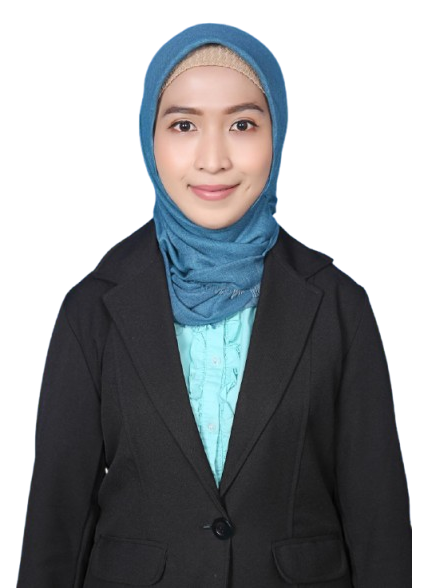
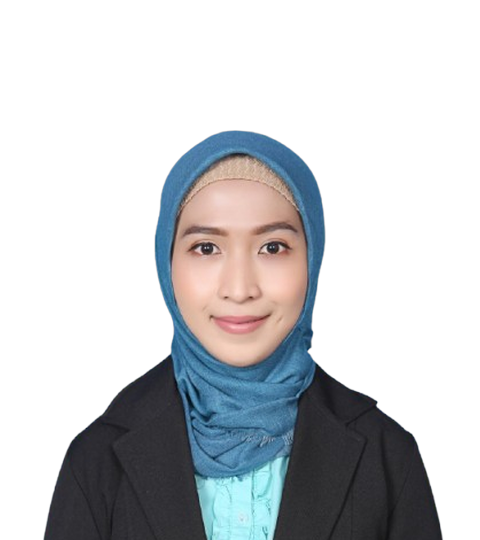
feat: standardize team photo dimensions, crops, and uniform 4-column cards

diff --git a/index.html b/index.html
@@ -780,22 +780,42 @@
       </div>
 
       <!-- Level 1: DIREKTUR (Featured Centered Card) -->
-      <div class="max-w-xl mx-auto mb-12">
-        <div class="group bg-white rounded-3xl border-2 border-brand-mid/30 p-6 sm:p-7 shadow-glow hover:shadow-glow-lg transition-all duration-300 relative overflow-hidden">
+      <div class="max-w-[280px] mx-auto mb-12">
+        <div class="group bg-white rounded-2xl border-2 border-brand-mid/40 p-6 shadow-glow hover:shadow-glow-lg transition-all duration-300 relative overflow-hidden flex flex-col justify-between">
           <div class="absolute -top-12 -right-12 w-40 h-40 bg-brand-light/10 rounded-full blur-2xl pointer-events-none"></div>
           
-          <div class="flex flex-col sm:flex-row items-center sm:items-start gap-5">
-            <div class="relative w-28 h-28 sm:w-32 sm:h-32 shrink-0 rounded-2xl overflow-hidden bg-gradient-to-b from-purple-100/70 via-slate-50 to-purple-50/40 border-2 border-brand-mid/30 shadow-md flex items-end justify-center pt-2">
+          <div>
+            <div class="flex items-center justify-between gap-3 mb-4 pb-3 border-b border-slate-100">
+              <div class="flex items-center gap-2">
+                <div class="w-8 h-8 rounded-lg bg-purple-100 text-purple-700 flex items-center justify-center shrink-0">
+                  <i data-lucide="crown" class="w-4 h-4 text-brand-bright"></i>
+                </div>
+                <div class="leading-tight">
+                  <span class="text-[10px] font-extrabold uppercase tracking-wider text-brand-bright">DEWAN DIREKSI</span>
+                  <h4 class="text-xs font-bold text-slate-800">Direktur Utama</h4>
+                </div>
+              </div>
+              <span class="inline-flex items-center gap-1 px-2.5 py-0.5 rounded-full bg-brand-mid/10 text-brand-dark text-[10px] font-extrabold tracking-wide uppercase">
+                DIREKTUR
+              </span>
+            </div>
+
+            <div class="relative overflow-hidden rounded-xl aspect-[4/5] mb-4 bg-gradient-to-b from-purple-100/70 via-slate-50 to-purple-50/40 border border-brand-mid/20 flex items-end justify-center pt-3">
               <img src="images/team/novita.png" alt="Novita Nurul Islami" class="w-full h-full object-contain object-bottom group-hover:scale-105 transition-transform duration-500">
             </div>
 
-            <div class="flex-1 text-center sm:text-left space-y-1.5">
-              <div class="inline-flex items-center gap-1.5 px-3 py-1 rounded-full bg-brand-mid/10 text-brand-dark text-xs font-extrabold tracking-wide uppercase">
-                <i data-lucide="crown" class="w-3.5 h-3.5 text-brand-bright"></i>
-                DIREKTUR
-              </div>
-              <h3 class="text-xl sm:text-2xl font-extrabold text-slate-900 tracking-tight">Novita Nurul Islami, S.Pd., M.Pd.</h3>
-              <p class="text-xs font-semibold text-slate-500">Pimpinan Eksekutif</p>
+            <div class="space-y-1">
+              <span class="text-[10px] font-extrabold uppercase tracking-wider text-purple-700 bg-purple-50 px-2 py-0.5 rounded">PIMPINAN EKSEKUTIF</span>
+              <h3 class="text-base font-bold text-slate-900 leading-snug pt-1">Novita Nurul Islami, S.Pd., M.Pd.</h3>
+              <p class="text-xs font-semibold text-slate-500">Executive Leadership & Corporate Governance</p>
+            </div>
+          </div>
+
+          <div class="pt-4 mt-5 border-t border-slate-100 flex items-center justify-between">
+            <span class="text-[10px] bg-purple-50 text-purple-700 font-semibold px-2 py-0.5 rounded">Executive Leadership</span>
+            <div class="flex items-center gap-3 text-slate-400">
+              <a href="#" class="hover:text-brand-bright transition-colors"><i data-lucide="linkedin" class="w-4 h-4"></i></a>
+              <a href="#" class="hover:text-brand-bright transition-colors"><i data-lucide="mail" class="w-4 h-4"></i></a>
             </div>
           </div>
         </div>
@@ -809,8 +829,8 @@
         </div>
       </div>
 
-      <!-- Level 2: 3 DIVISI UTAMA -->
-      <div class="grid md:grid-cols-3 gap-6 lg:gap-8">
+      <!-- Level 2: DIVISI & CORE SPECIALISTS (Standardized Uniform Cards) -->
+      <div class="grid sm:grid-cols-2 lg:grid-cols-4 gap-6">
         
         <!-- Divisi 1: Finance, Accounting & Financial Solution -->
         <div class="group bg-white rounded-2xl border border-slate-200/90 p-6 hover:border-brand-mid/40 hover:shadow-xl transition-all duration-300 flex flex-col justify-between">
@@ -821,7 +841,7 @@
               </div>
               <div class="leading-tight">
                 <span class="text-[10px] font-extrabold uppercase tracking-wider text-brand-bright">DIVISI 01</span>
-                <h4 class="text-xs font-bold text-slate-800">Finance, Accounting & Financial Solution</h4>
+                <h4 class="text-xs font-bold text-slate-800">Finance & Accounting</h4>
               </div>
             </div>
 
@@ -845,7 +865,7 @@
           </div>
         </div>
 
-        <!-- Divisi 2: Technology & Product Development (with IT & App Dev child) -->
+        <!-- Divisi 2: Technology & Product Development -->
         <div class="group bg-white rounded-2xl border-2 border-brand-mid/30 p-6 hover:border-brand-mid hover:shadow-glow transition-all duration-300 flex flex-col justify-between">
           <div>
             <div class="flex items-center gap-3 mb-4 pb-3 border-b border-slate-100">
@@ -854,7 +874,7 @@
               </div>
               <div class="leading-tight">
                 <span class="text-[10px] font-extrabold uppercase tracking-wider text-brand-mid">DIVISI 02</span>
-                <h4 class="text-xs font-bold text-slate-800">Technology & Product Development</h4>
+                <h4 class="text-xs font-bold text-slate-800">Tech & Product</h4>
               </div>
             </div>
 
@@ -867,24 +887,43 @@
               <h3 class="text-base font-bold text-slate-900 leading-snug pt-1">Maulida Dwi Agustiningsih, S.Kom., M.T.I., M.I.M.</h3>
               <p class="text-xs font-semibold text-slate-500">Technology & Product Specialist</p>
             </div>
+          </div>
 
-            <!-- Sub-Role: IT & Application Development -->
-            <div class="mt-4 p-3.5 rounded-xl bg-slate-50 border border-slate-200/80 hover:bg-white hover:border-brand-mid/40 transition-colors">
-              <div class="flex items-center gap-3">
-                <div class="w-12 h-12 rounded-xl overflow-hidden shrink-0 bg-gradient-to-b from-purple-100 via-slate-50 to-purple-50 border border-brand-mid/30 shadow-xs flex items-end justify-center pt-1">
-                  <img src="images/team/adrian.png" alt="Adrian Akbar Ramadhani" class="w-full h-full object-contain object-bottom">
-                </div>
-                <div class="flex-1 min-w-0">
-                  <span class="text-[9px] font-extrabold uppercase tracking-wider text-brand-bright block">IT & APPLICATION DEVELOPMENT</span>
-                  <h5 class="text-xs font-bold text-slate-900 truncate">Adrian Akbar Ramadhani</h5>
-                  <p class="text-[10px] text-slate-500">Engineering & Architecture</p>
-                </div>
+          <div class="pt-4 mt-5 border-t border-slate-100 flex items-center justify-between">
+            <span class="text-[10px] bg-pink-50 text-pink-700 font-semibold px-2 py-0.5 rounded">IT Governance</span>
+            <div class="flex items-center gap-3 text-slate-400">
+              <a href="#" class="hover:text-brand-bright transition-colors"><i data-lucide="linkedin" class="w-4 h-4"></i></a>
+              <a href="#" class="hover:text-brand-bright transition-colors"><i data-lucide="mail" class="w-4 h-4"></i></a>
+            </div>
+          </div>
+        </div>
+
+        <!-- Divisi Core Dev: IT & Application Development -->
+        <div class="group bg-white rounded-2xl border border-slate-200/90 p-6 hover:border-brand-mid/40 hover:shadow-xl transition-all duration-300 flex flex-col justify-between">
+          <div>
+            <div class="flex items-center gap-3 mb-4 pb-3 border-b border-slate-100">
+              <div class="w-8 h-8 rounded-lg bg-indigo-100 text-indigo-700 flex items-center justify-center shrink-0">
+                <i data-lucide="code-2" class="w-4 h-4"></i>
               </div>
+              <div class="leading-tight">
+                <span class="text-[10px] font-extrabold uppercase tracking-wider text-indigo-700">ENGINEERING</span>
+                <h4 class="text-xs font-bold text-slate-800">IT & App Development</h4>
+              </div>
+            </div>
+
+            <div class="relative overflow-hidden rounded-xl aspect-[4/5] mb-4 bg-gradient-to-b from-indigo-50/80 via-slate-50 to-indigo-100/40 border border-slate-200/60 flex items-end justify-center pt-3">
+              <img src="images/team/adrian.png" alt="Adrian Akbar Ramadhani" class="w-full h-full object-contain object-bottom group-hover:scale-105 transition-transform duration-500">
+            </div>
+
+            <div class="space-y-1">
+              <span class="text-[10px] font-extrabold uppercase tracking-wider text-indigo-700 bg-indigo-50 px-2 py-0.5 rounded">CORE ARCHITECT</span>
+              <h3 class="text-base font-bold text-slate-900 leading-snug pt-1">Adrian Akbar Ramadhani</h3>
+              <p class="text-xs font-semibold text-slate-500">Software Engineering & Architecture</p>
             </div>
           </div>
 
           <div class="pt-4 mt-5 border-t border-slate-100 flex items-center justify-between">
-            <span class="text-[10px] bg-pink-50 text-pink-700 font-semibold px-2 py-0.5 rounded">Software & Systems</span>
+            <span class="text-[10px] bg-indigo-50 text-indigo-700 font-semibold px-2 py-0.5 rounded">Software & Systems</span>
             <div class="flex items-center gap-3 text-slate-400">
               <a href="#" class="hover:text-brand-bright transition-colors"><i data-lucide="linkedin" class="w-4 h-4"></i></a>
               <a href="#" class="hover:text-brand-bright transition-colors"><i data-lucide="github" class="w-4 h-4"></i></a>
@@ -902,7 +941,7 @@
               </div>
               <div class="leading-tight">
                 <span class="text-[10px] font-extrabold uppercase tracking-wider text-emerald-700">DIVISI 03</span>
-                <h4 class="text-xs font-bold text-slate-800">Business Dev & Islamic Business</h4>
+                <h4 class="text-xs font-bold text-slate-800">Business Dev & Islamic</h4>
               </div>
             </div>
 
@@ -913,12 +952,12 @@
             <div class="space-y-1">
               <span class="text-[10px] font-extrabold uppercase tracking-wider text-emerald-700 bg-emerald-50 px-2 py-0.5 rounded">KEPALA DIVISI</span>
               <h3 class="text-base font-bold text-slate-900 leading-snug pt-1">Putri Catur Ayu Lestari, S.EI., M.A.</h3>
-              <p class="text-xs font-semibold text-slate-500">Business Development & Islamic Business</p>
+              <p class="text-xs font-semibold text-slate-500">Business Dev & Islamic Business</p>
             </div>
           </div>
 
           <div class="pt-4 mt-5 border-t border-slate-100 flex items-center justify-between">
-            <span class="text-[10px] bg-emerald-50 text-emerald-700 font-semibold px-2 py-0.5 rounded">Partnership · Islamic Business</span>
+            <span class="text-[10px] bg-emerald-50 text-emerald-700 font-semibold px-2 py-0.5 rounded">Sharia Business</span>
             <div class="flex items-center gap-3 text-slate-400">
               <a href="#" class="hover:text-brand-bright transition-colors"><i data-lucide="linkedin" class="w-4 h-4"></i></a>
               <a href="#" class="hover:text-brand-bright transition-colors"><i data-lucide="mail" class="w-4 h-4"></i></a>
